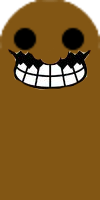
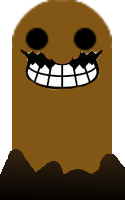
Bug grounded

diff --git a/Assets/Scripts/GrapinScript.cs b/Assets/Scripts/GrapinScript.cs
@@ -24,48 +24,52 @@ public class GrapinScript : MonoBehaviour {
 	
 	// Update is called once per frame
 	void Update () {
-		if(!isLaunched)
+		if(direction != 0)
 		{
-			if(Input.GetMouseButtonDown(0))
+			if(!isLaunched)
 			{
-				Vector2 parent = new Vector2(wagon.transform.position.x,wagon.transform.position.y);
-				Vector2 child = new Vector2(transform.position.x/* + parent.x*/, transform.position.y/* + parent.y*/);
+				if(Input.GetMouseButtonDown(0))
+				{
+					Vector2 parent = new Vector2(wagon.transform.position.x,wagon.transform.position.y);
+					Vector2 child = new Vector2(transform.position.x/* + parent.x*/, transform.position.y/* + parent.y*/);
 
-				target = Physics2D.Raycast(child,
-												new Vector2(((child.x - parent.x) / 
-															(child.y - parent.y)) *
-															(child.y + delta),
-															child.y + delta));
-				Debug.DrawLine(child, new Vector2(((child.x - parent.x) / 
-															(child.y - parent.y)) *
-															(child.y + delta * 200),
-															child.y + delta * 200),Color.black,20);
-				Debug.DrawLine(child, target.transform.position ,Color.red ,20);
-				direction = -1;
-				isLaunched = true;
-			} else {
-				Debug.Log(transform.rotation.eulerAngles.z);
-				if (transform.rotation.eulerAngles.z > baseAngle+clampValue && transform.rotation.eulerAngles.z < baseAngle+clampValue+20)
+					target = Physics2D.Raycast(child,
+													new Vector2(((child.x - parent.x) / 
+																(child.y - parent.y)) *
+																(child.y + delta),
+																child.y + delta));
+					Debug.DrawLine(child, new Vector2(((child.x - parent.x) / 
+																(child.y - parent.y)) *
+																(child.y + delta * 200),
+																child.y + delta * 200),Color.black,20);
+					Debug.DrawLine(child, target.transform.position ,Color.red ,20);
 					direction = -1;
-				else if(transform.rotation.eulerAngles.z < (baseAngle+360)-clampValue && transform.rotation.eulerAngles.z > (baseAngle+360)-clampValue-20)
+					isLaunched = true;
+				} else {
+					if (transform.rotation.eulerAngles.z > baseAngle+clampValue && transform.rotation.eulerAngles.z < baseAngle+clampValue+20)
+						direction = -1;
+					else if(transform.rotation.eulerAngles.z < (baseAngle+360)-clampValue && transform.rotation.eulerAngles.z > (baseAngle+360)-clampValue-20)
+						direction = 1;
+					transform.RotateAround(wagon.transform.position,Vector3.forward,speed * Time.deltaTime * direction);
+				}
+			} else {
+				transform.Translate(new Vector3(0,direction * speedVertical * Time.deltaTime, 0),transform);
+				if(transform.position.y < target.transform.position.y)
+				{
+					spr.sprite = Closed;
 					direction = 1;
-				transform.RotateAround(wagon.transform.position,Vector3.forward,speed * Time.deltaTime * direction);
+				} else if (transform.position.y > baseY && spr.sprite == Closed)
+					direction = 0;
 			}
 		} else {
-			transform.Translate(new Vector3(0,direction * speedVertical * Time.deltaTime, 0),transform);
-			if(transform.position.y < target.transform.position.y)
-			{
-				spr.sprite = Closed;
-				direction = 1;
-			} else if (transform.position.y > baseY && spr.sprite == Closed)
-				direction = 0;
+			transform.parent.position += Vector3.right * 3 * Time.deltaTime;
 		}
 	}
 }
 
 
 
-// grapin (corde)
+// corde
 // item + drop
 // "cinématique"
 // actual buffs

diff --git a/Assets/Scripts/PlayerController.cs b/Assets/Scripts/PlayerController.cs
@@ -51,14 +51,19 @@ public class PlayerController : MonoBehaviour {
 	private void OnCollisionEnter2D(Collision2D other) {
 		if(other.gameObject.CompareTag("ground"))
 		{
-			grounded = true;
-			nbGrounded++;
+			PlatformScript ptr = other.gameObject.GetComponent<PlatformScript>();
+			if(ptr.reversed == reversedGravity)
+			{
+				grounded = true;
+				nbGrounded++;
+			}
 		}
 	}
 
 	private void OnCollisionExit2D(Collision2D other) {
 		if(other.gameObject.CompareTag("ground"))
-			nbGrounded--;
+			if(nbGrounded != 0)
+				nbGrounded--;
 			if(nbGrounded == 0)
 				grounded = false; 
 	}

diff --git a/Assets/Scripts/PlatformScript.cs b/Assets/Scripts/PlatformScript.cs
@@ -1,0 +1,8 @@
+using System.Collections;
+using System.Collections.Generic;
+using UnityEngine;
+
+public class PlatformScript : MonoBehaviour {
+
+	public bool reversed;
+}
